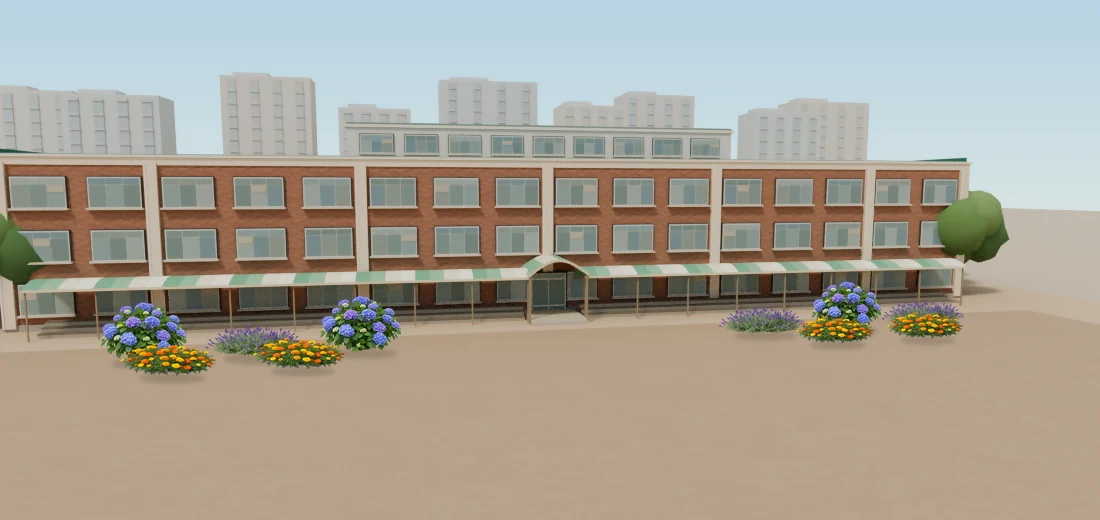
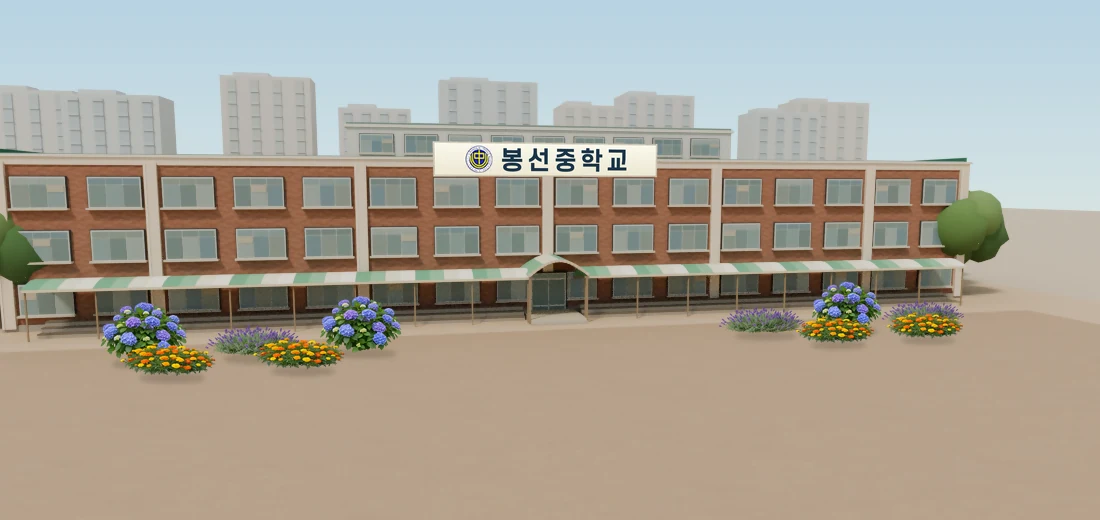
Add the official Bongseon crest and Korean school name on the main facade

Changed region(s): [[0.3709, 0.2462, 0.6182, 0.3385]]

diff --git a/src/lib/bongsun-building.ts b/src/lib/bongsun-building.ts
@@ -1,4 +1,4 @@
-import type { BufferGeometry, Matrix4, MeshStandardMaterial } from "three";
+import type { BufferGeometry, Matrix4, MeshStandardMaterial, Texture } from "three";
 
 type Three = typeof import("three");
 type BoxPart = { transform: Matrix4; color: number };
@@ -44,7 +44,7 @@ function brickwork(THREE: Three) {
 }
 
 /** Photo-guided massing of the field-facing school. +Z faces the editable garden. */
-export function createBongsunBuilding(THREE: Three) {
+export function createBongsunBuilding(THREE: Three, nameplate?: Texture) {
   const group = new THREE.Group();
   group.name = "봉선중학교 본관";
   const joinery: BoxPart[] = [];
@@ -87,6 +87,18 @@ export function createBongsunBuilding(THREE: Three) {
   box(green, 0, 10.39, -3.78, 63.95, 0.35, 0.15);
   box(green, -31.90, 10.39, 0.01, 0.15, 0.35, 7.70);
   box(green, 31.90, 10.39, 0.01, 0.15, 0.35, 7.70);
+
+  if (nameplate) {
+    // Fix the sign to the parapet over the main entrance, clear of the classroom windows.
+    box(0xc5bcab, 0, 10.14, 4.28, 14.78, 2.18, 0.32);
+    const sign = new THREE.Mesh(
+      new THREE.PlaneGeometry(14.7, 2.1),
+      new THREE.MeshBasicMaterial({ map: nameplate, toneMapped: false, transparent: true }),
+    );
+    sign.name = "봉선중학교 교표와 교명";
+    sign.position.set(0, 10.14, 4.46);
+    group.add(sign);
+  }
 
   // Broad stucco piers separate groups of finer brick window bays on the field side.
   for (const x of [-31.64, -23.75, -11.85, 0, 11.85, 23.75, 31.64]) {

diff --git a/src/components/student/SampleSchool3DScene.tsx b/src/components/student/SampleSchool3DScene.tsx
@@ -70,6 +70,8 @@ interface SceneCallbacks {
 }
 
 const LAWN_TEXTURE_URL = "/materials/landscape/lawn.webp";
+// The crest on this sign comes from the official bongsun.jge.ms.kr desktop header (images/common/logo.jpg).
+const BONGSUN_NAMEPLATE_URL = "/assets/schools/bongsun/nameplate.png";
 const LAWN_CELL_SIZE_METERS = 0.07;
 const LAWN_TEXTURE_TILE_METERS = 1.35;
 
@@ -304,7 +306,7 @@ function buildSampleCampus(runtime: SceneRuntime, schoolName: string, schoolLogo
 
   if (runtime.bongsun) {
     const school = new THREE.Group();
-    school.add(createBongsunBuilding(THREE), createBongsunSurroundings(THREE));
+    school.add(createBongsunBuilding(THREE, runtime.textures.get(BONGSUN_NAMEPLATE_URL)), createBongsunSurroundings(THREE));
     school.scale.setScalar(0.37);
     school.position.z = -5.5;
     campus.add(school);
@@ -1290,7 +1292,7 @@ export function SampleSchool3DScene({
             || objectsRef.current.some((object) => object.materialId === material.id))
           : LANDSCAPE_MATERIALS;
         const textureUrls = [...new Set([
-          ...(bongsun ? [CAMPUS_TEXTURE_URLS[0]] : CAMPUS_TEXTURE_URLS),
+          ...(bongsun ? [CAMPUS_TEXTURE_URLS[0], BONGSUN_NAMEPLATE_URL] : CAMPUS_TEXTURE_URLS),
           ...SAMPLE_SCHOOL_SURFACE_MATERIALS.map((material) => material.textureUrl),
           ...materials.flatMap((material) => [material.planAssetUrl, material.sideAssetUrl]).filter((url): url is string => Boolean(url)),
         ])];
